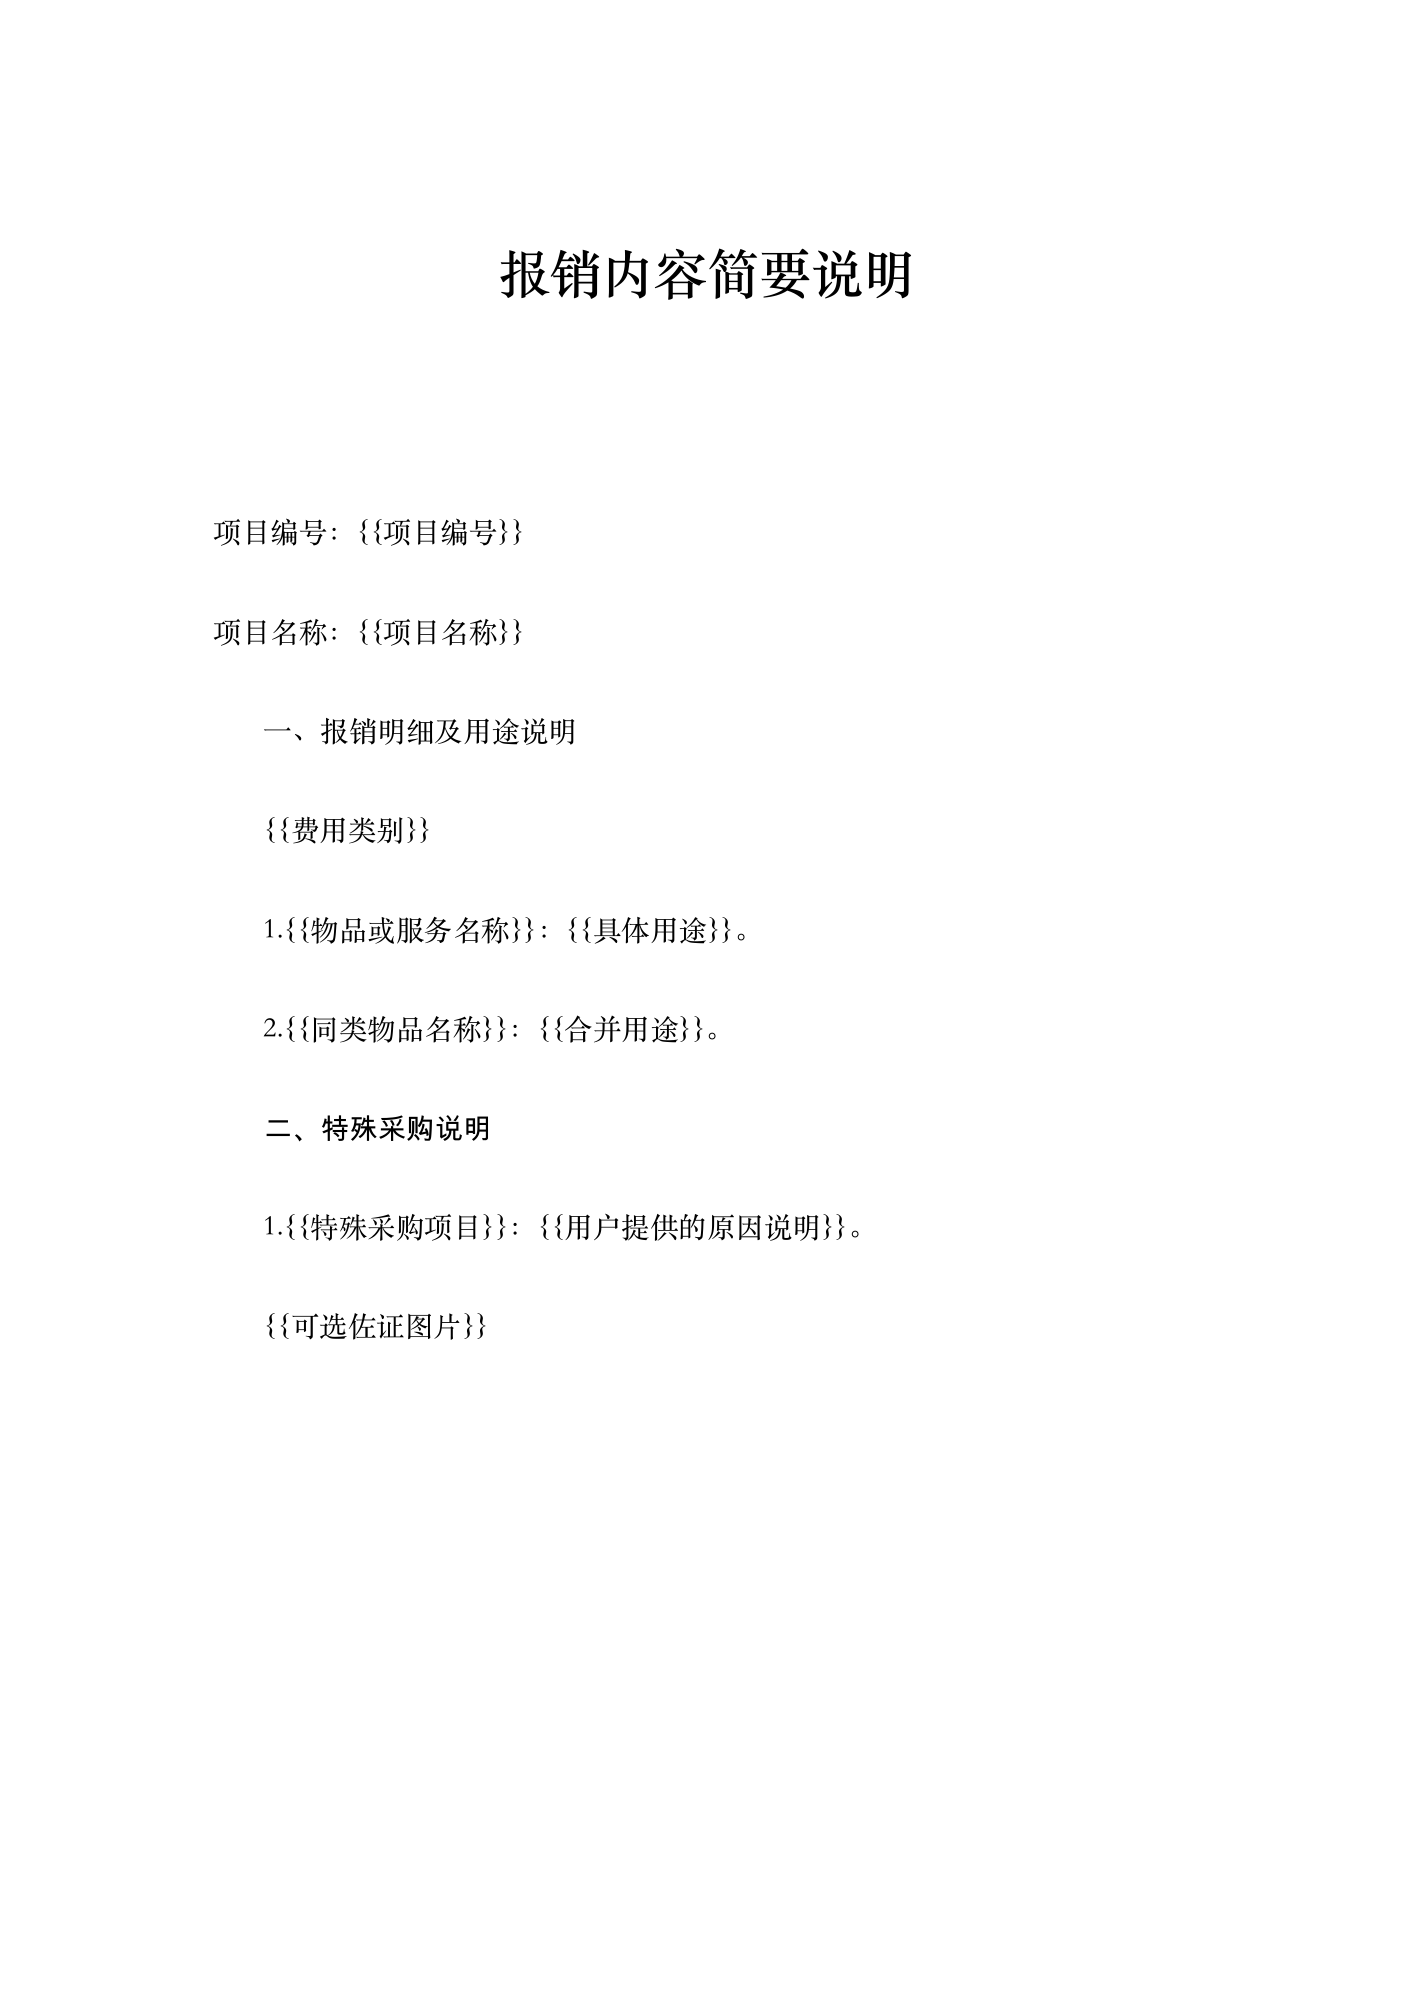
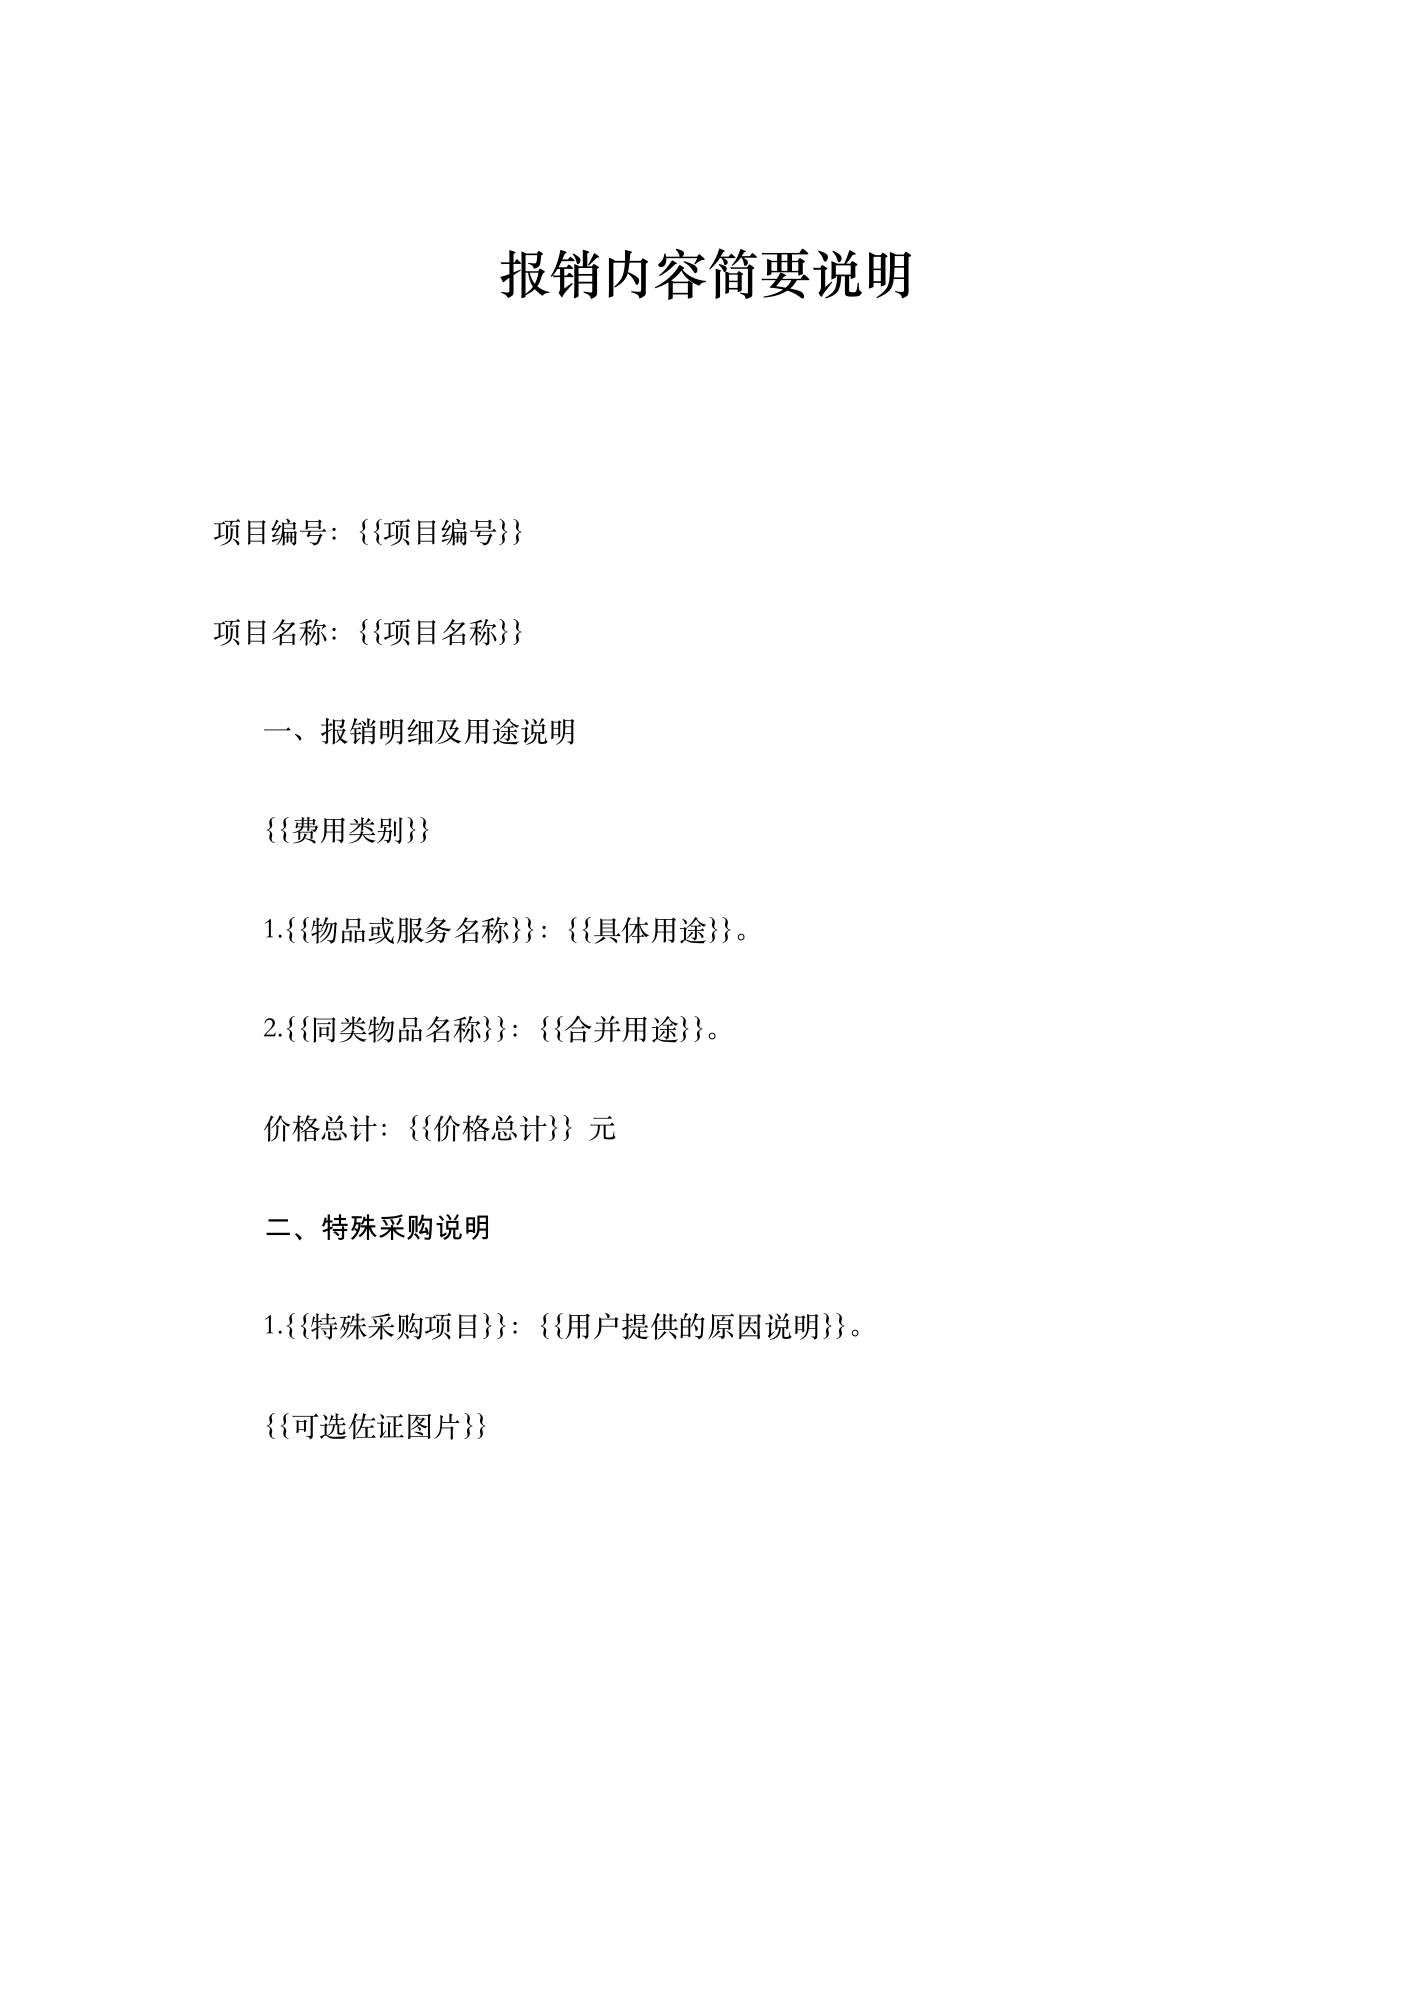
feat: add price total to reimbursement template

diff --git a/.agents/skills/expense/references/Word填写与更新.md b/.agents/skills/expense/references/Word填写与更新.md
@@ -13,7 +13,7 @@
 | 正文 | Songti SC，12 磅，1.5 倍行距 |
 | 首行缩进 | 类别及用途等段落沿用母版的 2 字缩进 |
 | 标题 | Title 样式，Songti SC，22 磅加粗，居中 |
-| 结构 | 项目资料、报销明细及用途、按需的特殊采购说明 |
+| 结构 | 项目资料、报销明细及用途、价格总计、按需的特殊采购说明 |
 
 尽量复用源段落、run 属性、真实样式和编号，以相同模式增删条目。特殊采购栏目通过母版的编号设置显示“二、”，复制时保留该编号关系。
 
@@ -26,10 +26,11 @@
 | `{{费用类别}}` | 按实际发票组织费用类别；可复制类别段落增补 |
 | `{{物品或服务名称}}`、`{{具体用途}}` | 填入已经确认的分类用途 |
 | `{{同类物品名称}}`、`{{合并用途}}` | 用于同类物品合并表述，按实际条目增删 |
+| `{{价格总计}}` | 按发票号码去重后汇总本次有效发票的价税合计，保留两位小数 |
 | `{{特殊采购项目}}`、`{{用户提供的原因说明}}` | 根据用户原文填写实物或服务的采购原因 |
 | `{{可选佐证图片}}` | 替换成用户提供的对应图片，或在无配图时删除该占位段 |
 
-正式文档按项目合并成一份。正文省略按人分组、人员明细、个人小计和金额总计，姓名用于工作区命名、文件命名与归属确认。
+正式文档按项目合并成一份。正文省略按人分组、人员明细和个人小计，姓名用于工作区命名、文件命名与归属确认。全部报销明细之后、特殊采购说明之前保留一行 `价格总计：{{价格总计}} 元`，正式文档将该占位符替换为计算结果。
 
 用途条目数量由实际内容决定，合并同类物品，保留发票中已经明确的数量和规格。采购事实和特殊采购原因以用户提供的信息为依据。服务类条目按实际服务用途填写。
 
@@ -41,7 +42,7 @@
 
 ## 更新与写入
 
-首次生成前确认必需信息、材料和用途已经收齐并确认。更新时先重新读取当前全部发票，将新增用途和采购原因与原说明合并，保留已经确认的内容。
+首次生成前确认必需信息、材料和用途已经收齐并确认。更新时先重新读取当前全部发票，按相同口径重新计算价格总计，将新增用途和采购原因与原说明合并，保留已经确认的内容。
 
 将待交付版本先保存到任务临时目录，使用可用的文档渲染工具生成预览并逐页检查。正式覆盖前，把现有 `报销内容简要说明.docx` 备份至工作区的 `历史备份（旧版本，忽略）`，采用带本地时间的文件名；同名追加序号。最后把已检查的版本写入姓名工作区根目录。
 

diff --git a/.agents/skills/expense/references/整理规则.md b/.agents/skills/expense/references/整理规则.md
@@ -38,6 +38,12 @@
 
 同一票号出现互相矛盾的票面内容时，保留文件并请用户确认有效内容。
 
+## 价格总计
+
+价格总计位于全部报销明细之后、特殊采购说明之前，采用 `价格总计：金额 元` 的格式，金额保留两位小数。
+
+按发票号码去重后，将本次项目全部有效发票的票面价税合计相加；多人发票合并为一个总计，同一票号计入一次。使用十进制金额计算，新增或调整发票时重新汇总。订单截图和付款记录用于关联核对。
+
 ## 材料阈值
 
 判定单位为单张发票的价税合计。
